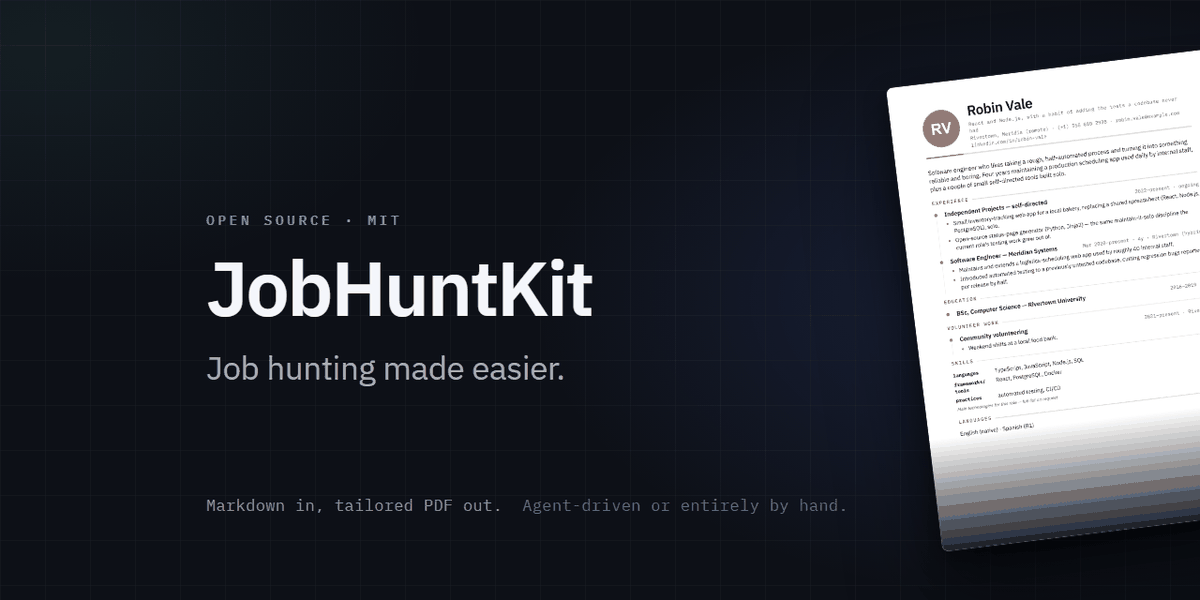
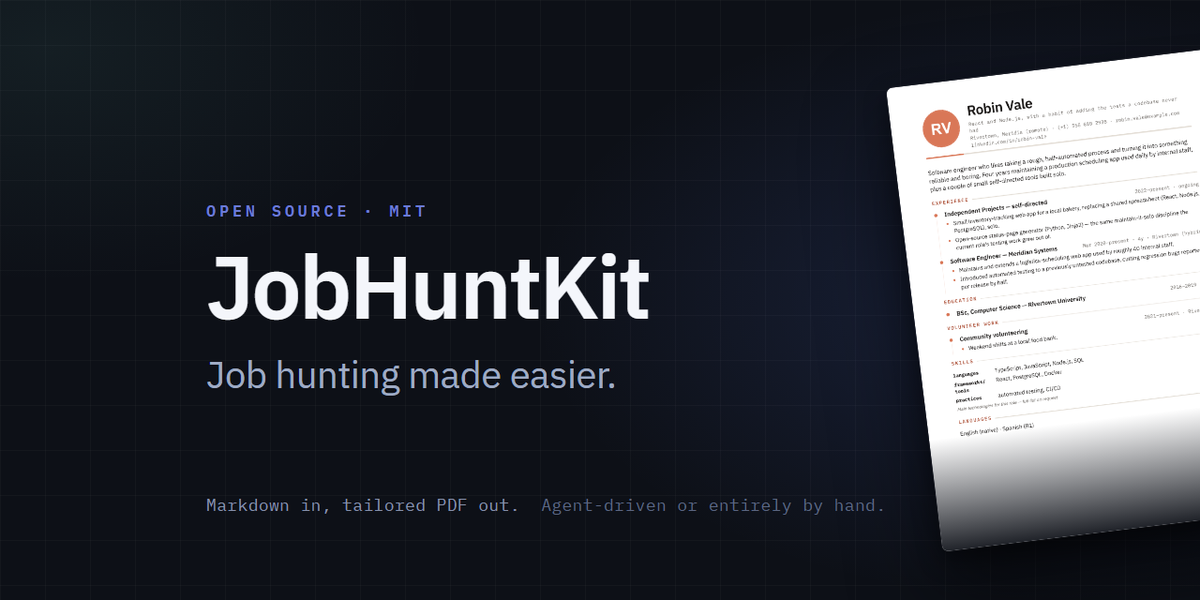
docs: 1200x600 full-colour share card with larger type

diff --git a/.github/make_social_card.py b/.github/make_social_card.py
@@ -145,16 +145,16 @@ body::before {{
   transform: translateY(-50%); width: 640px; z-index: 2;
 }}
 .mark {{
-  font-family: 'Plex Mono', monospace; font-size: 15px; font-weight: 600;
+  font-family: 'Plex Mono', monospace; font-size: 17px; font-weight: 600;
   letter-spacing: 0.22em; text-transform: uppercase;
   color: {t["kicker"]}; margin-bottom: 22px;
 }}
 h1 {{
-  font-size: 82px; font-weight: 600; letter-spacing: -0.028em;
+  font-size: 94px; font-weight: 600; letter-spacing: -0.028em;
   line-height: 1; color: {t["title"]}; margin-bottom: 22px;
 }}
 .tagline {{
-  font-size: 35px; font-weight: 400; line-height: 1.28;
+  font-size: 40px; font-weight: 400; line-height: 1.28;
   letter-spacing: -0.012em; color: {t["tagline"]};
 }}
 /* bottom: 90px, not 62px — at 62px this line rendered at y 560..575, straddling the template's
@@ -162,7 +162,7 @@ h1 {{
    worst thing on the card to have cropped. */
 .meta {{
   position: absolute; left: 220px; bottom: 90px; z-index: 2;
-  font-family: 'Plex Mono', monospace; font-size: 17px;
+  font-family: 'Plex Mono', monospace; font-size: 18px;
   letter-spacing: 0.02em; color: {t["meta"]};
 }}
 .meta b {{ color: {t["meta_strong"]}; font-weight: 400; }}
@@ -216,17 +216,17 @@ def render(theme, out_dir, browser, scale=1.0, suffix=""):
     return png_path
 
 
-# The share card is 1200x600 — the same dimensions GitHub's own auto-generated card uses.
-# Quantised to 128 colours to keep the weight down: chat clients downgrade a heavy link preview
-# to a small square thumbnail, which crops a 2:1 card to nonsense.
+# The share card is 1200x600 — the same dimensions as GitHub's own auto-generated card, which
+# is the one observed to keep WhatsApp's large banner layout. Full colour, no quantisation: an
+# earlier 128-colour pass shaved bytes but visibly shifted the palette (the avatar lost its
+# orange), and dimensions look like the likelier trigger for the downgrade anyway.
 SHARE_SIZE = (1200, 600)
-SHARE_COLORS = 128
 
 
-def to_share_png(png_path, size=SHARE_SIZE, colors=SHARE_COLORS):
-    """Resized, quantised copy of the card for uploading as the social preview.
+def to_share_png(png_path, size=SHARE_SIZE):
+    """Resized, full-colour copy of the card for uploading as the social preview.
 
-    The full-colour 1280x640 PNG stays the archive; this is the share artifact. Needs Pillow.
+    The 1280x640 PNG stays the archive; this is the share artifact. Needs Pillow.
     """
     try:
         from PIL import Image
@@ -237,12 +237,10 @@ def to_share_png(png_path, size=SHARE_SIZE, colors=SHARE_COLORS):
     img = Image.open(png_path).convert("RGB")
     if img.size != size:
         img = img.resize(size, Image.LANCZOS)
-    img.quantize(colors=colors, method=Image.MEDIANCUT, dither=Image.FLOYDSTEINBERG).save(
-        share_path, optimize=True
-    )
+    img.save(share_path, optimize=True)
     kb = os.path.getsize(share_path) / 1024
     print(f"        -> {os.path.relpath(share_path, REPO)} "
-          f"({size[0]}x{size[1]}, {colors} colours, {kb:.0f} KB)")
+          f"({size[0]}x{size[1]}, full colour, {kb:.0f} KB)")
     return share_path
 
 

diff --git a/scripts/audit_public.py b/scripts/audit_public.py
@@ -69,9 +69,8 @@ BINARY_ALLOWLIST_EXACT = [
     # bytes, for chat apps that skip or degrade large link-preview images.
     ".github/social-preview-640.png",
     ".github/social-preview-light-640.png",
-    # -share.png is the variant actually uploaded to GitHub: same 1280x640, quantised to
-    # 128 colours (~a third of the bytes), which keeps chat clients rendering the large
-    # banner instead of a cropped square thumbnail.
+    # -share.png is the variant actually uploaded to GitHub: 1200x600 full colour, matching
+    # the dimensions of GitHub's own auto-generated card.
     ".github/social-preview-share.png",
     # Same card as a JPEG: lossy but ~a third the bytes, kept alongside the PNG so either
     # can be uploaded depending on how a platform handles preview weight.
